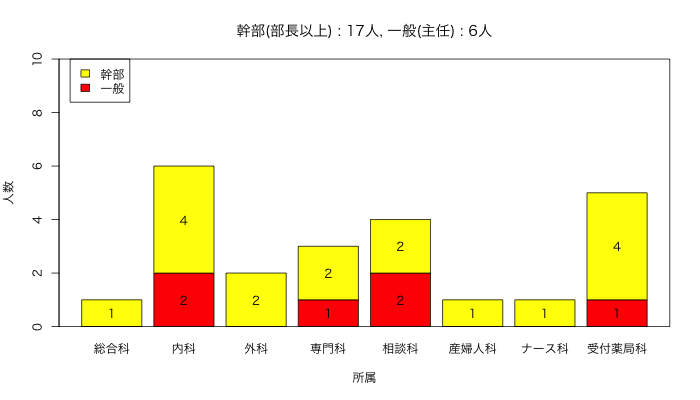
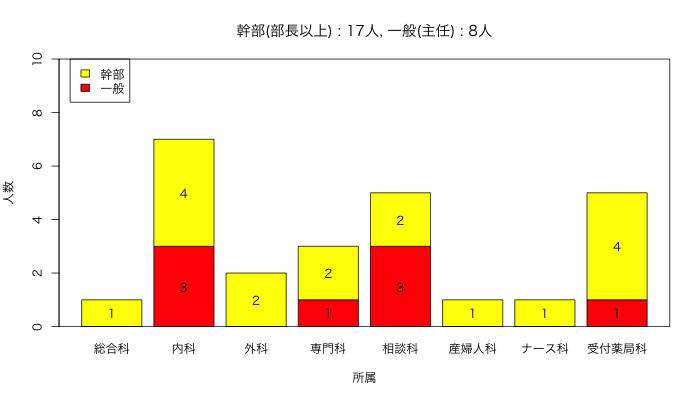
更新

diff --git a/ReadMe.md b/ReadMe.md
@@ -13,20 +13,20 @@
 
 ## 会員構成
 
-2017年05月02日(火)時点での主任以上の会員
+2017年05月14日(日)時点での主任以上の会員
 
 ### 一覧
 
 |役職|所属|名前|更新|
 |:-----|:-----|:-----|:-----|
 |オーナー|総合科|優里||
+|医院長|外科|流|<img src="https://github.com/fairy00000/organization/blob/master/image/new.gif">|
 |医院長|専門科|Kirara||
 |医院長|専門科|じーじ||
 |医院長|相談科|あめ||
 |副医院長|受付薬局科|Sherry||
 |副医院長|受付薬局科|にこ||
 |副医院長補佐|専門科|愛海||
-|医局長|外科|流|<img src="https://github.com/fairy00000/organization/blob/master/image/new.gif">|
 |部長|内科|Fx||
 |部長|内科|くぅ||
 |部長|内科|まあ||
@@ -37,9 +37,11 @@
 |部長|ナース科|さきりん||
 |部長|受付薬局科|かのん||
 |部長|受付薬局科|渚||
+|主任|内科|SEANO|<img src="https://github.com/fairy00000/organization/blob/master/image/new.gif">|
 |主任|内科|にゃんこ||
 |主任|内科|ルミカ||
 |主任|相談科|かお||
+|主任|相談科|さぁや|<img src="https://github.com/fairy00000/organization/blob/master/image/new.gif">|
 |主任|相談科|みさき||
 |主任|受付薬局科|りな||
 
@@ -48,14 +50,14 @@
 ||総合科|内科|外科|専門科|相談科|産婦人科|ナース科|受付薬局科|合計|
 |:--|:---:|:---:|:---:|:---:|:---:|:---:|:---:|:---:|:---:|
 |オーナー|1|0|0|0|0|0|0|0|1|
-|医院長|0|0|0|2|1|0|0|0|3|
+|医院長|0|0|1|2|1|0|0|0|4|
 |副医院長|0|0|0|0|0|0|0|2|2|
 |副医院長補佐|0|0|0|1|0|0|0|0|1|
-|医局長|0|0|1|0|0|0|0|0|1|
+|医局長|0|0|0|0|0|0|0|0|0|
 |事務局長|0|0|0|0|0|0|0|0|0|
 |部長|0|4|1|0|1|1|1|2|10|
-|主任|0|2|0|0|2|0|0|1|5|
-|合計|1|6|2|3|4|1|1|5|23|
+|主任|0|3|0|0|3|0|0|1|7|
+|合計|1|7|2|3|5|1|1|5|25|
 
 <img src="https://github.com/fairy00000/organization/blob/master/image/Member.png">
 
